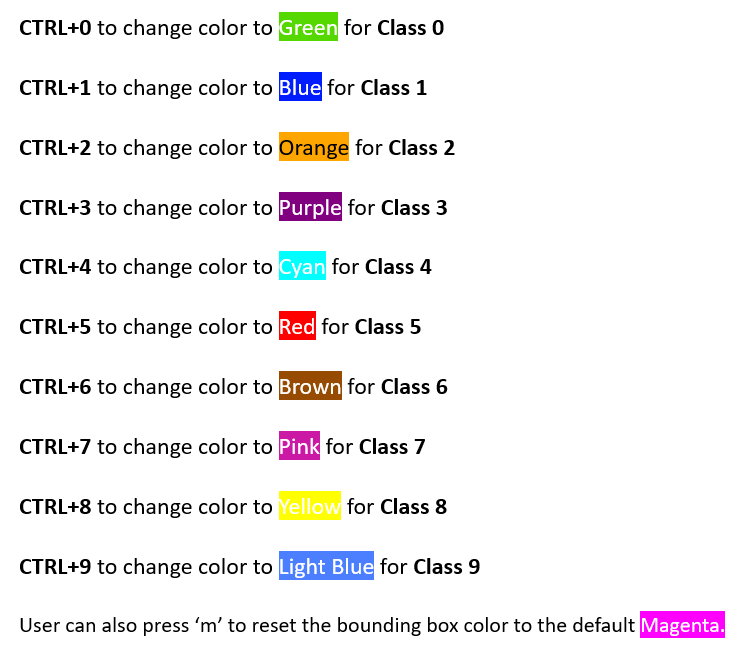
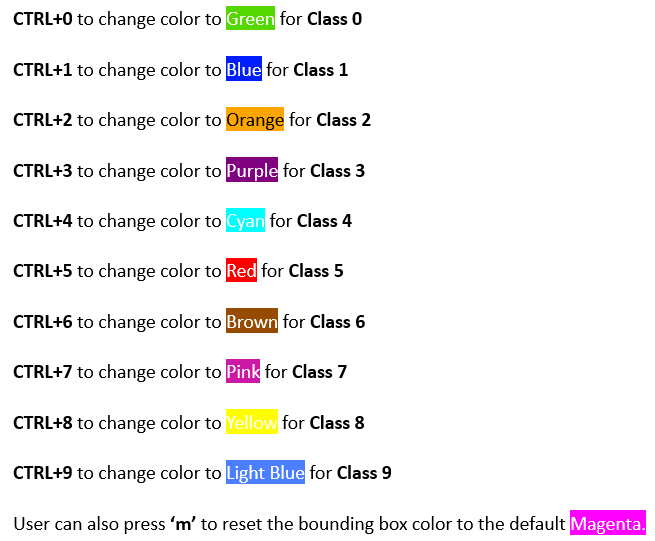
updating description and images

diff --git a/.napari/DESCRIPTION.md b/.napari/DESCRIPTION.md
@@ -6,14 +6,16 @@ UPDATE DEMO V3
 
 ## What's new in v3?
 Here is a list of the main changes v3 of napari-organoid-counter offers:
-Support for multiple DL models: 
-* **Object Detection Only (DO)** - pretrained models: Faster R-CNN (DO), YOLOv3 (DO), SSD (DO), and RTMDet (DO). The data used for training these models along with the code for training can be found [here](https://www.kaggle.com/datasets/christinabukas/mutliorg).
-* **Detection and Binary Classification (BC)** - pretrained models: Currently, YOLOv3 (BC) is supported, which not only detects organoids but also differentiates between two types of organoids (Class 0 and Class 1). Class 0 organoids are represented with Green and Class 1 with Blue. Bounding boxes for low confidence predictions will remain in Magenta with the label "uncertain.
+
+* Support for multiple DL models: 
+
+**Object Detection Only (DO)** - pretrained models: Faster R-CNN (DO), YOLOv3 (DO), SSD (DO), and RTMDet (DO). The data used for training these models along with the code for training can be found [here](https://www.kaggle.com/datasets/christinabukas/mutliorg).
+
+**Detection and Binary Classification (BC)** - pretrained models: Currently, YOLOv3 (BC) is supported, which not only detects organoids but also differentiates between two types of organoids (Class 0 and Class 1). Class 0 organoids are represented with Green and Class 1 with Blue. Bounding boxes for low confidence predictions will remain in Magenta.
 * Pyramid model inference with a sliding window approach and tunable parameters for window size and window downsampling rate.
 * Model confidence added as tunable parameter.
-New annotation system:
-- Annotate up to 10 classes of organoids, each assigned a unique color. Users can change the bounding box color for each class using key bindings. See Quickstart instructions.
-- When saving the annotations, the class label is recorded in the .json file based on the color of the bounding box.
+* Annotate up to 10 classes of organoids, each assigned a unique color. Users can change the bounding box color for each class using key bindings. See Quickstart instructions.
+* When saving the annotations, the class label is recorded in the .json file based on the color of the bounding box.
 * Allow to load and correct existing annotations (note: these must have been saved previously from v3 of this plugin).
 * Only model confidence displayed in the viewer for easy readability.
 * _Fixed:_ box thickness changing at different donwsampling rates.
@@ -49,48 +51,59 @@ The use of the napari-organoid-counter plugin is straightforward. Here is a step
 
 **1. Load and Select an Image**
 * Drag and drop the image(s) you wish to process into the napari viewer.
-Select the layer you want to work on using the drop-down box at the top of the input configurations.
+* Select the layer you want to work on using the drop-down box at the top of the input configurations.
 
 **2. Preprocessing (Optional)**
 * To improve the way the image is visualised you can pre-process them by clicking the _Preprocess_ button and the image layer will automatically be updated with the result.
 
 **3. Model Selection**
+
 You can use either:
 * Your own model: If you have a Faster R-CNN model you wish to use for the prediction, you can browser and select this by clicking on the _Choose_ button. Note that your own model must follow the specifications described here _(TODO)_.
-* Pre-trained models: The plugin provides the following models, automatically downloaded if needed
+* Pre-trained models: The plugin provides the following models, automatically downloaded if needed.
+
 **Detection Only (DO):** Faster R-CNN (DO), YOLOv3 (DO), SSD (DO), RTMDet (DO). These models will be automatically downloaded from Zenodo. Predicted bounding boxes will appear in default color magenta.
+
 **Binary Classification (BC):** YOLOv3 (BC). This model is also automatically downloaded from Zenodo. It predicts bounding boxes and classifies organoids as Green (Class 0) or Blue (Class 1), while low confidence cases remain in Magenta.
 
 **4. Annotation Mode & Model Constraints**
 * If a DO model is selected, all annotations modes are available.
-* If a BC model is selected, DO annotation mode is disabled, and a warning will appear.
+* If a BC model is selected, the DO annotation mode is disabled. If you attempt to run the detection by clicking _Run Organoid Counter_, the following error message will appear.
+
+![Error Model and Annotation Mode Mismatch](https://github.com/HelmholtzAI-Consultants-Munich/napari-organoid-counter/blob/ten_classes_annotation/readme-content/warning_BC_model_DO_annotation.png)
+
 
 **5. Adjust Model Parameters**
-* You can adjust the _Window sizes_ and _Downsampling_ parameters to define the window size in the sliding window inference and the downsampling that is performed on the image. If you have multiple objects with different sizes, it might be good to set multiple window sizes, with corresponding downsampling rates. You can seperate these with a comma in the text box (e.g. ```2048, 512```). After you have set _Window sizes_ and _Downsampling_ hit **Enter** for each for the changes to be accepted. 
-**_Downsampling parameter:_** To detect large organoids (and ignore smaller structures) you may need to increase the downsampling rate, whereas if your organoids are small and are being missed by the algorithm, consider reducing the downsampling rate. 
-**_Window size parameter:_** The window size can also impact the number of objects detected: typically a ratio of 512 to 1 between window size and downsampling rate would give optimal results, while larger window sizes would lead to a drop in performance. However, please note that small window sizes will signicantly impact the runtime of the algorithm.
+You can adjust the _Window sizes_ and _Downsampling_ parameters to define the window size in the sliding window inference and the downsampling that is performed on the image. If you have multiple objects with different sizes, it might be good to set multiple window sizes, with corresponding downsampling rates. You can seperate these with a comma in the text box (e.g. ```2048, 512```). After you have set _Window sizes_ and _Downsampling_ hit **Enter** for each for the changes to be accepted. 
+* **_Downsampling parameter:_** To detect large organoids (and ignore smaller structures) you may need to increase the downsampling rate, whereas if your organoids are small and are being missed by the algorithm, consider reducing the downsampling rate. 
+* **_Window size parameter:_** The window size can also impact the number of objects detected: typically a ratio of 512 to 1 between window size and downsampling rate would give optimal results, while larger window sizes would lead to a drop in performance. However, please note that small window sizes will signicantly impact the runtime of the algorithm.
 
 **6. Running the Organoid Counter**
+
 By clicking the _Run Organoid Counter_ button the detection algorithm will run and a new shapes layer will be added to the viewer, with bounding boxes are placed around the detected organoid. 
 
 **7. Correcting & Annotating Bounding Boxes**
-You can add, edit or remove boxes using the _layer controls_ window (top left). The _Number of detected organoids_ will show you the number of organoids in the layer in real time. You can switch between viewing the model confidence for each box by toggling the _display text_ box in the _layer controls_ window. Boxes added by the user will by default have a confidence of 1.
-You can choose between different annotation modes and annotate up to 10 classes, based on your preferences. To change the color of the bounding boxes, key bindings are assigned for each specific class:
+* You can add, edit or remove boxes using the _layer controls_ window (top left). 
+* The _Number of detected organoids_ will show you the number of organoids in the layer in real time. 
+* You can switch between viewing the model confidence for each box by toggling the _display text_ box in the _layer controls_ window. Boxes added by the user will by default have a confidence of 1.
+* You can choose between different annotation modes and annotate up to 10 classes, based on your preferences. To change the color of the bounding boxes, the following key bindings are assigned for each specific class:
 
 ![Key Bindings](https://github.com/HelmholtzAI-Consultants-Munich/napari-organoid-counter/blob/ten_classes_annotation/readme-content/key-bindings.png)
 
-If using an annotation mode (other than DO), you must assign the correct colors before saving. If any bounding boxes are missing a valid class color, a warning appears.
+* If using an annotation mode (other than DO), you must assign the correct colors before saving. If any bounding boxes are missing a valid class color, a warning appears.
 
 **8. Adjusting Confidence & Object Size Thresholds**
 * If you feel that your model is over- or under-predicting you can use the _Model confidence_ scroll bar and select the value which best suits your problem. Default confidence is set to 0.8.
 * If you objects are typically bigger or smaller than those displayed you can use the _Minimum Diameter_ slider to set the minimum diameter of your objects. Default value is 30 um.
 
 **9. Saving Results**
-After you are happy with the detection results (and your manual corrections if any), you can select which shapes layer results to save via the dropdown box. To save the bounding box coordinates (along with the box id, model confidence for that box, x and y scale for that image, and class labels) as a json file click _Save boxes_ and select where to save your file. The class label is indicated by the color of the bounding box. In DO mode, class is 'null'. The features can be saved in a csv file by clicking on the _Save features_. The saved features will include the organoid id, the two lengths of the boundig box (which corresponds to the min. and max. diameter of the organoid, approximated as an ellipse), the area of the organoid (again approximated as an ellipse).
+* After you are happy with the detection results (and your manual corrections if any), you can select which shapes layer results to save via the dropdown box. 
+* _Save boxes_: saves the bounding box coordinates (along with the box id, model confidence for that box, x and y scale for that image, and class labels) as a json file. You can select where to save your file. The class is indicated by the color of the bounding box. In DO mode, class is 'null'. 
+*  _Save features_: saves the features in a csv file. The saved features will include the organoid id, the two lengths of the boundig box (which corresponds to the min. and max. diameter of the organoid, approximated as an ellipse), the area of the organoid (again approximated as an ellipse).
 
 **10. Additional Options**
-The _Take Screenshot_ button has the same functionality as _File -> Save screenshot_. The _Reset Configs_ button will reset the image and all parameters to the original settings. To save features of the detected organoids (diameters when approximating organoid as an ellipse and organoid area) in a csv file click _Save features_. 
-
+* _Take Screenshot_ button has the same functionality as _File -> Save screenshot_. 
+* _Reset Configs_ button will reset the image and all parameters to the original settings. 
 
 ## Getting Help
 